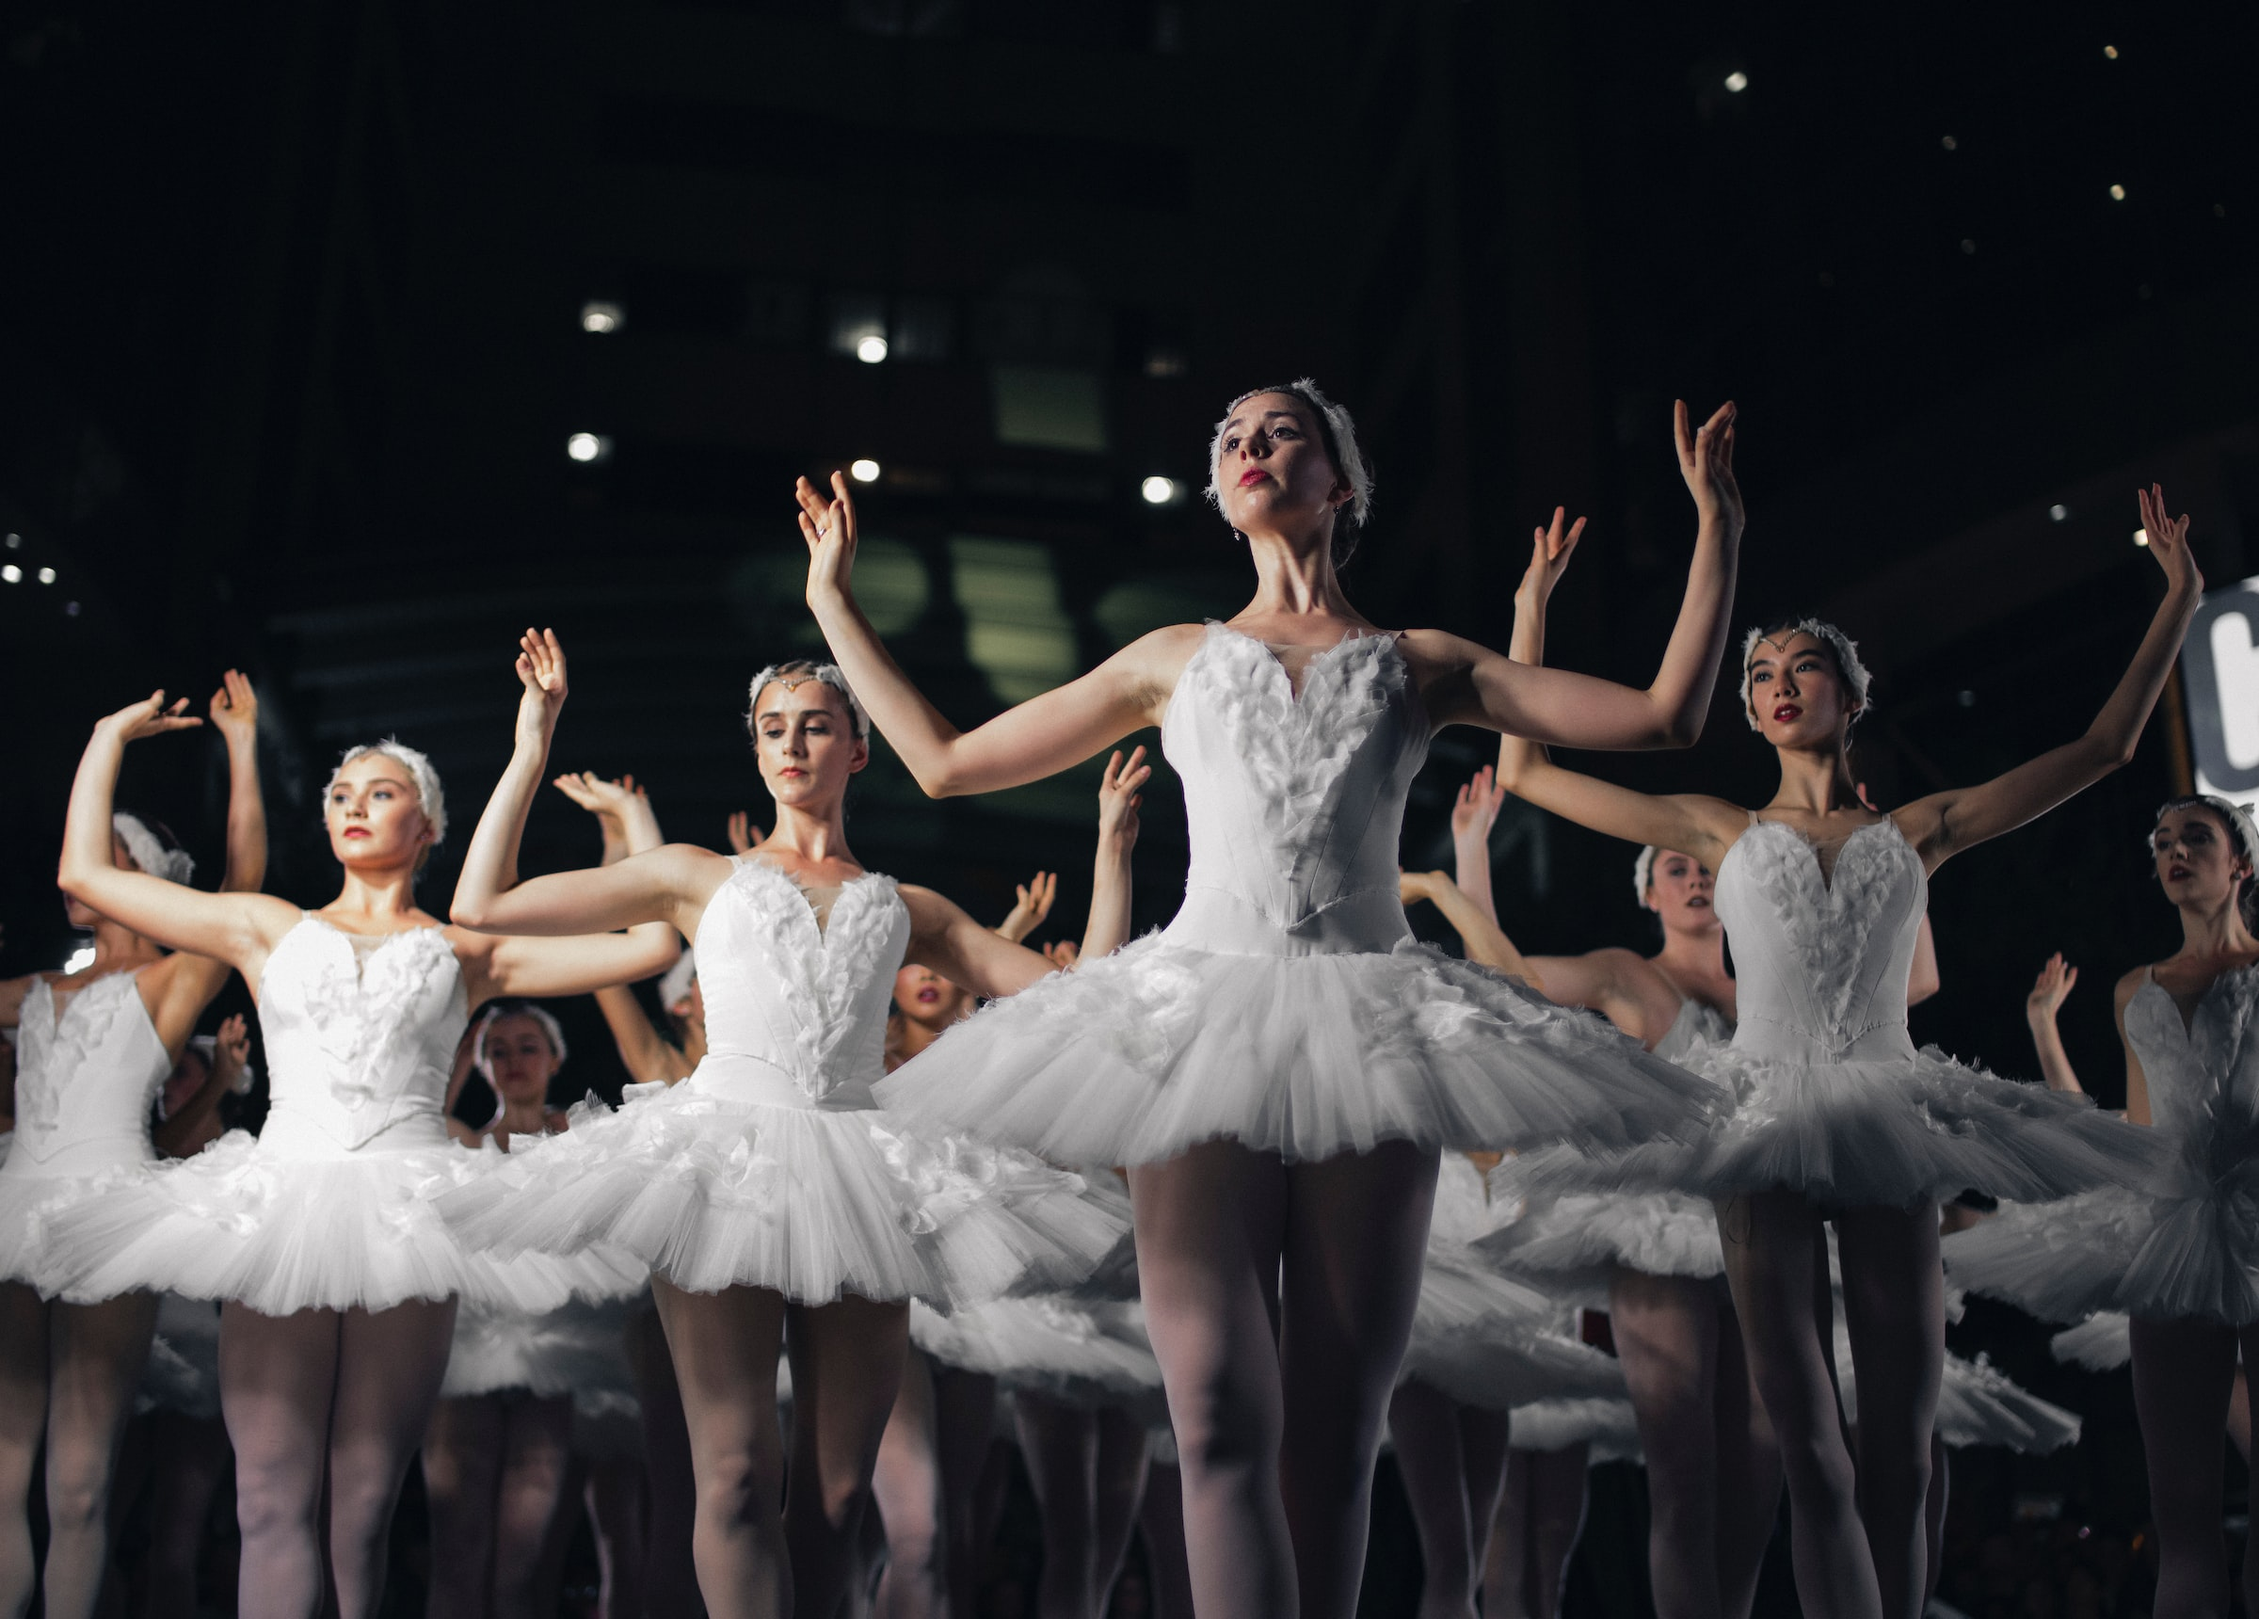
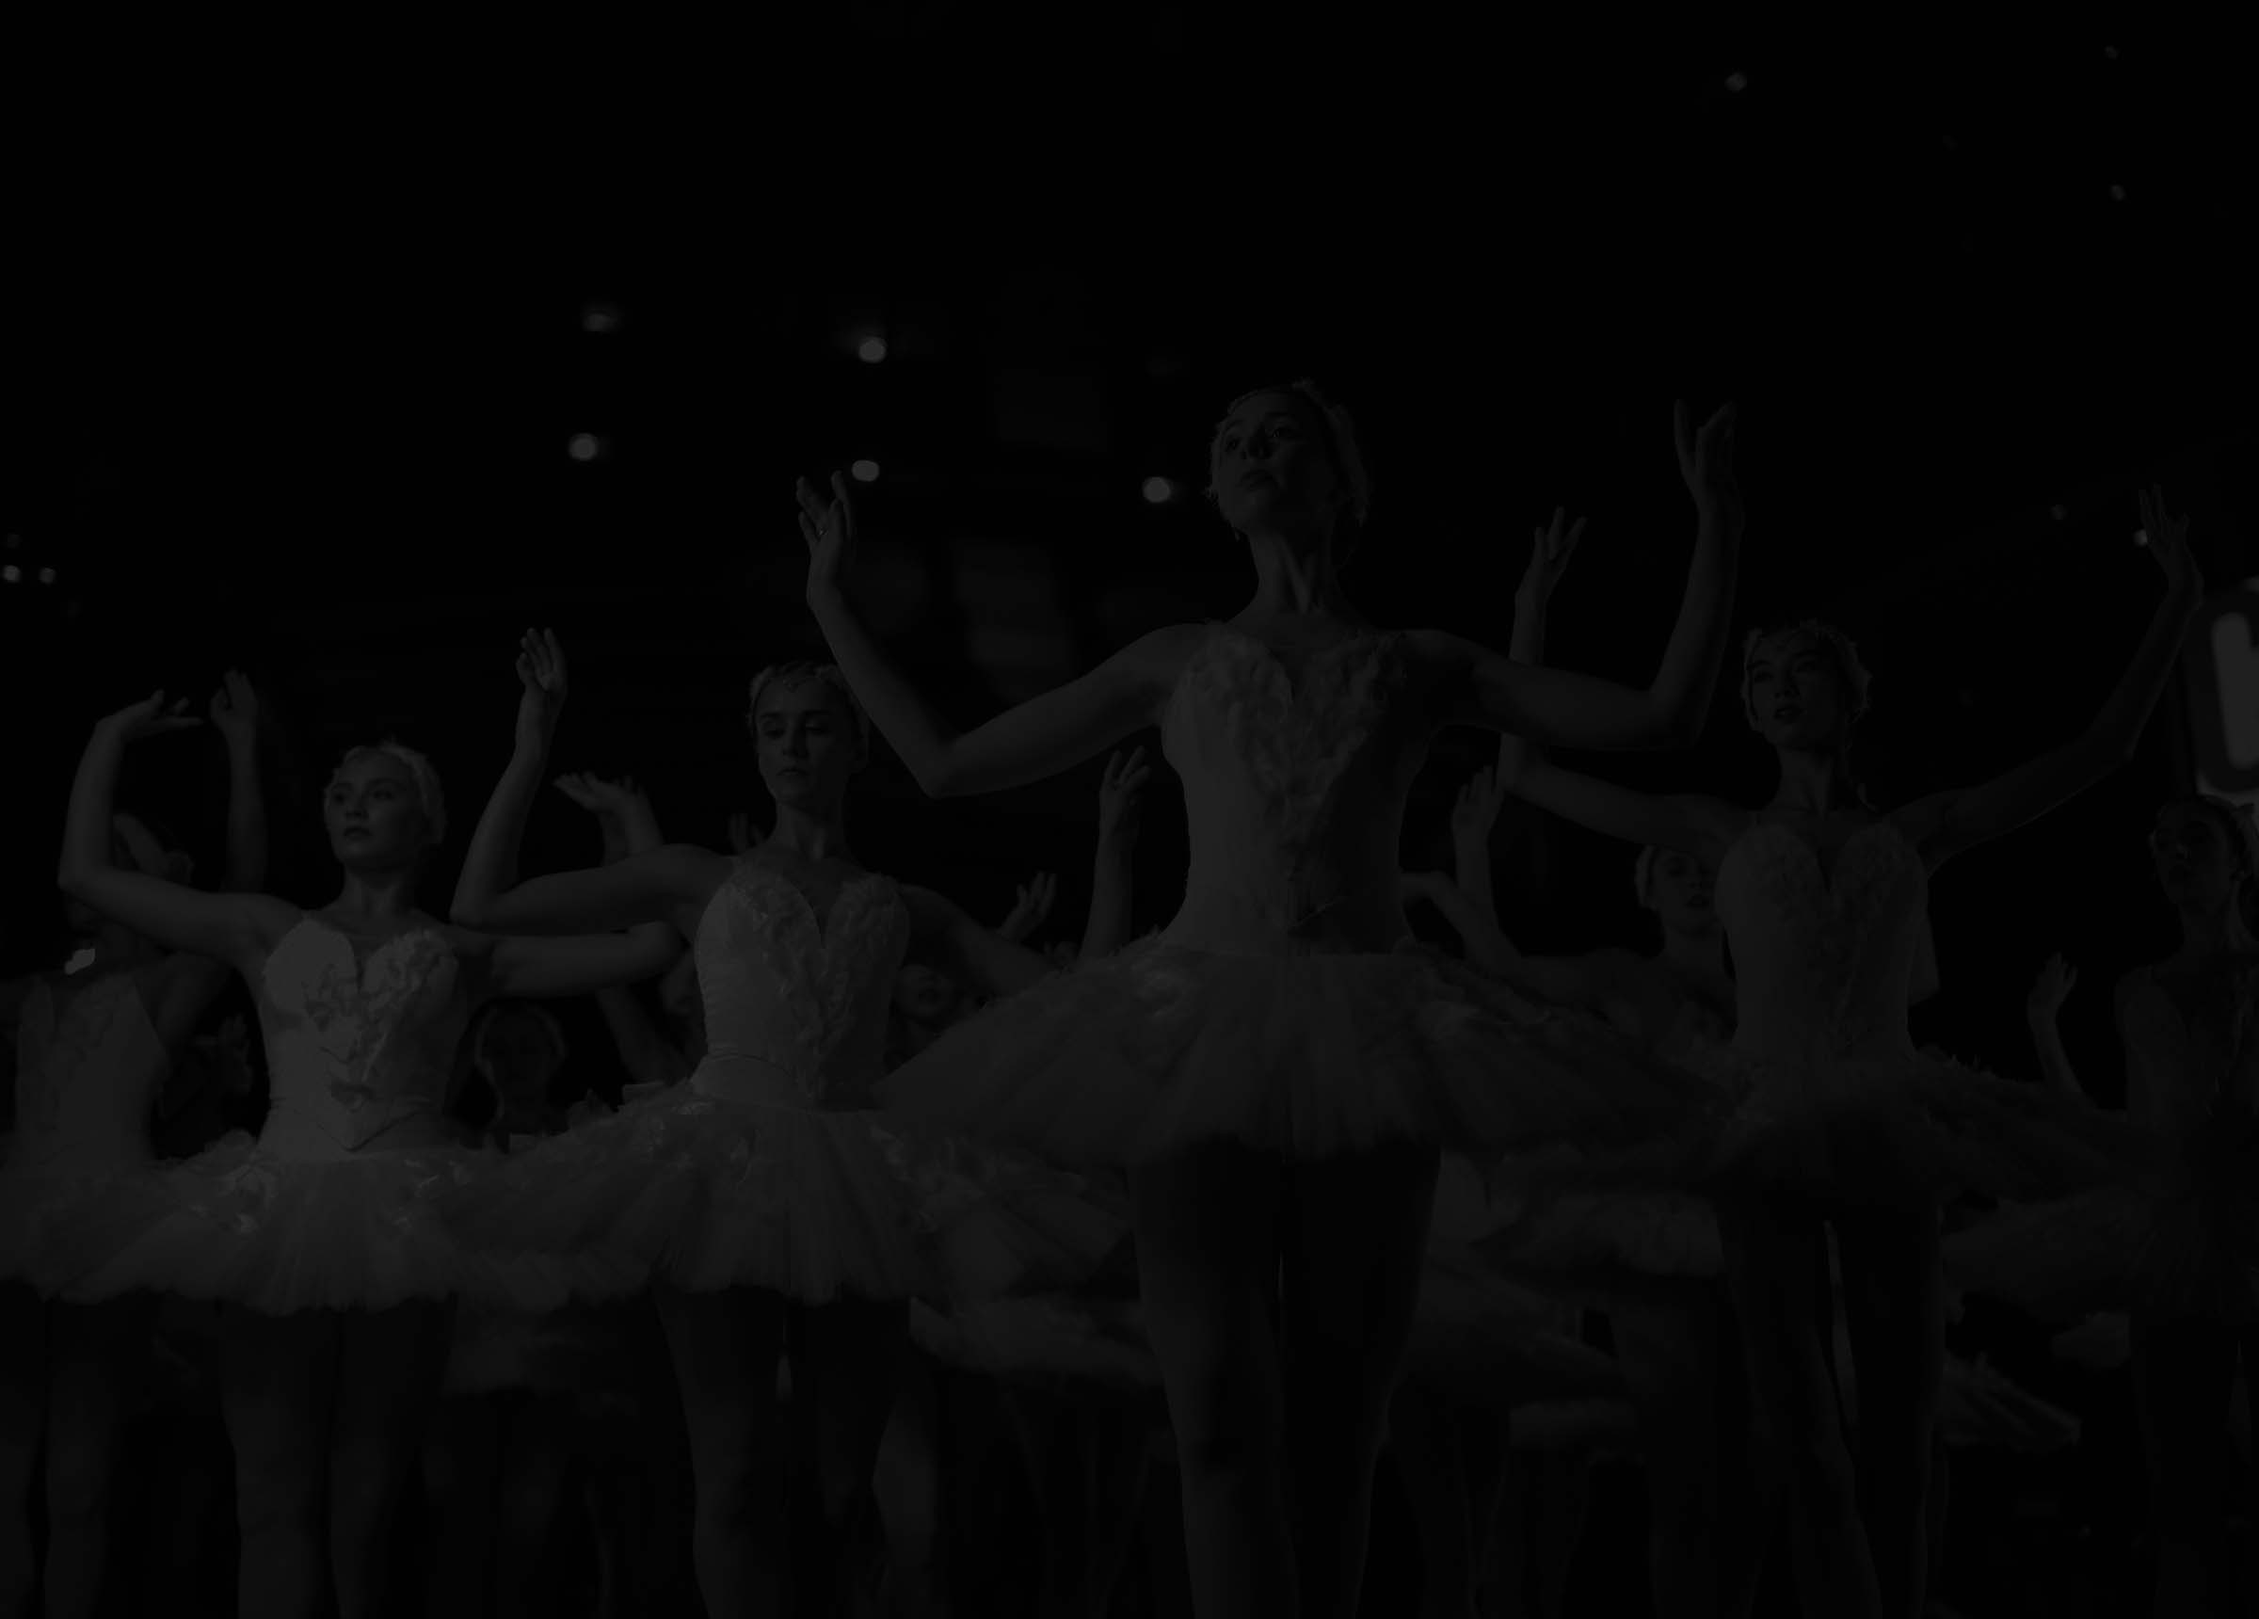
Styling

diff --git a/src/components/Work.jsx b/src/components/Work.jsx
@@ -36,7 +36,10 @@ export default function Work() {
             className="flex scale-90 flex-col shadow-lg duration-300 hover:scale-100"
           >
             <img src={balletImg} alt="" />
-            <div className="flex items-center justify-between bg-white px-6 py-4">
+            <a
+              href="https://www.youtube.com/watch?v=dQw4w9WgXcQ&ab_channel=RickAstley"
+              className="flex items-center justify-between bg-white px-6 py-4"
+            >
               <div>
                 <h4 className="font-serif text-2xl font-semibold uppercase text-black">
                   Danza Clásica
@@ -45,7 +48,7 @@ export default function Work() {
                   Ballet, clases de danza y blabla
                 </p>
               </div>
-              <button className="flex flex-col items-center text-zinc-700">
+              <div className="flex flex-col items-center text-zinc-700 duration-300 hover:text-black">
                 <svg
                   xmlns="http://www.w3.org/2000/svg"
                   fill="none"
@@ -61,8 +64,8 @@ export default function Work() {
                   />
                 </svg>
                 <p className="text-xs font-semibold">VER MÁS</p>
-              </button>
-            </div>
+              </div>
+            </a>
           </div>
 
           <div
@@ -70,7 +73,10 @@ export default function Work() {
             className="flex scale-90 flex-col shadow-lg duration-300 hover:scale-100"
           >
             <img src={parisImg} alt="" />
-            <div className="flex items-center justify-between bg-white px-6 py-4">
+            <a
+              href="https://www.youtube.com/watch?v=dQw4w9WgXcQ&ab_channel=RickAstley"
+              className="flex items-center justify-between bg-white px-6 py-4"
+            >
               <div>
                 <h4 className="font-serif text-2xl font-semibold uppercase text-black">
                   Francés
@@ -79,7 +85,7 @@ export default function Work() {
                   Francés orientado a la danza y blabla
                 </p>
               </div>
-              <button className="flex flex-col items-center text-zinc-700">
+              <div className="flex flex-col items-center text-zinc-700 duration-300 hover:text-black">
                 <svg
                   xmlns="http://www.w3.org/2000/svg"
                   fill="none"
@@ -95,8 +101,8 @@ export default function Work() {
                   />
                 </svg>
                 <p className="text-xs font-semibold">VER MÁS</p>
-              </button>
-            </div>
+              </div>
+            </a>
           </div>
         </div>
       </div>

diff --git a/src/components/Hero.jsx b/src/components/Hero.jsx
@@ -3,7 +3,7 @@ import video from '../assets/hero-video3.mp4';
 export default function Hero() {
   return (
     <section id="inicio">
-      {/* <video
+      <video
         className="absolute inset-0 h-screen w-full object-cover grayscale"
         autoPlay
         muted
@@ -11,8 +11,8 @@ export default function Hero() {
         id="myVideo"
       >
         <source src={video} type="video/mp4" />
-      </video> */}
-      <div className="absolute inset-0 h-screen w-full bg-black/50 backdrop-blur-sm"></div>
+      </video>
+      <div className="backdrop-blur-sm123 absolute inset-0 h-screen w-full bg-black/60"></div>
       <div className="z-10 flex h-screen select-none flex-col items-center justify-center text-white">
         <div className="relative">
           <div className="flex w-screen items-center justify-center gap-8">

diff --git a/src/components/Menu.jsx b/src/components/Menu.jsx
@@ -7,12 +7,12 @@ export default function Menu({ controlMenu, currentSection }) {
 
   return (
     <div>
-      <img
+      {/* <img
         className="fixed inset-0 z-40 h-screen w-screen object-cover brightness-[15%] grayscale"
         src={bgMenu}
         alt=""
-      />
-      <div className="fixed inset-0 z-50 flex h-screen w-full flex-col items-center justify-center">
+      /> */}
+      <div className="fixed inset-0 z-50 flex h-screen w-full flex-col items-center justify-center bg-[url('./assets/bg-menu.jpg')] bg-cover">
         <button
           onClick={() => controlMenu(false)}
           className="absolute top-12 right-12 duration-300 hover:rotate-90"

diff --git a/src/components/Contact.jsx b/src/components/Contact.jsx
@@ -108,7 +108,7 @@ export default function Contact() {
             value={message}
             name="message"
           />
-          <button className="boder-rose-300 w-fit border-2 border-rose-300 px-12 py-2 font-semibold duration-300 hover:bg-rose-300">
+          <button className="boder-rose-300 border-2 border-rose-300 bg-rose-300 px-12 py-3 font-semibold text-black duration-300 hover:bg-transparent hover:text-white">
             ENVIAR
           </button>
         </div>

diff --git a/src/components/AboutMe.jsx b/src/components/AboutMe.jsx
@@ -24,7 +24,7 @@ export default function AboutMe() {
         </div>
       </div>
       <img src={aboutImg} alt="" />
-      <div className="w-fit lg:pl-20 xl:pl-32">
+      <div className="lg:pl-20 xl:pl-32">
         <h3 className="font-serif text-3xl font-semibold">ACÁ VA UN TÍTULO</h3>
         <hr className="my-5 border-rose-300" />
         <ul className="flex flex-col gap-5 text-zinc-700">
